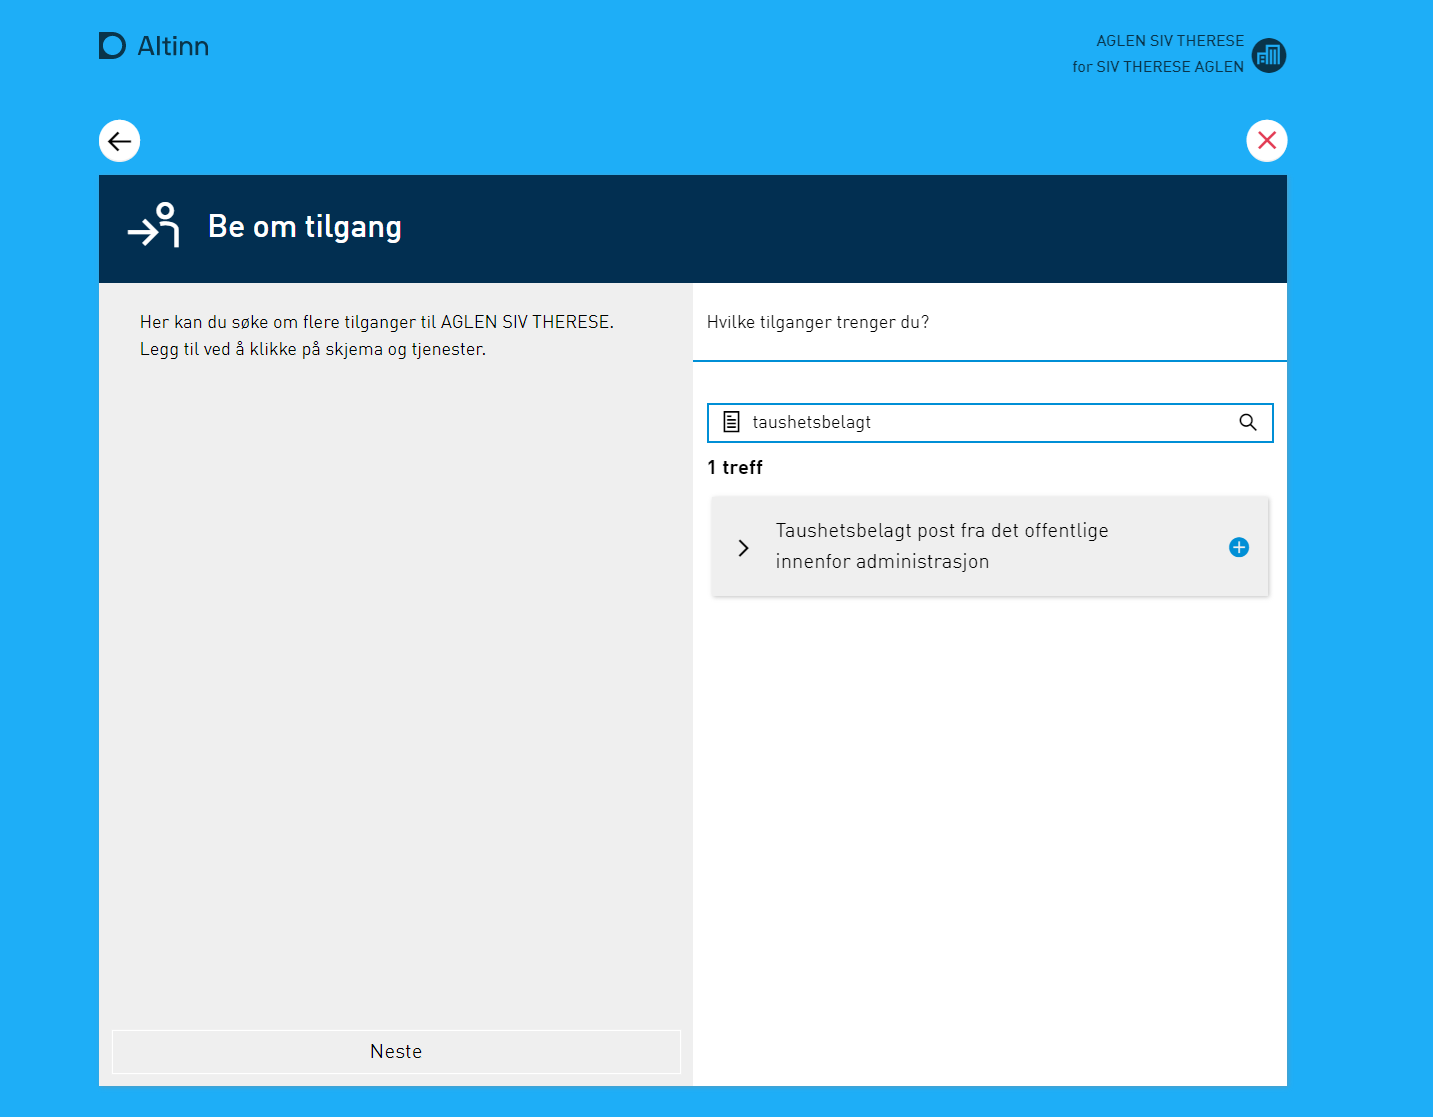
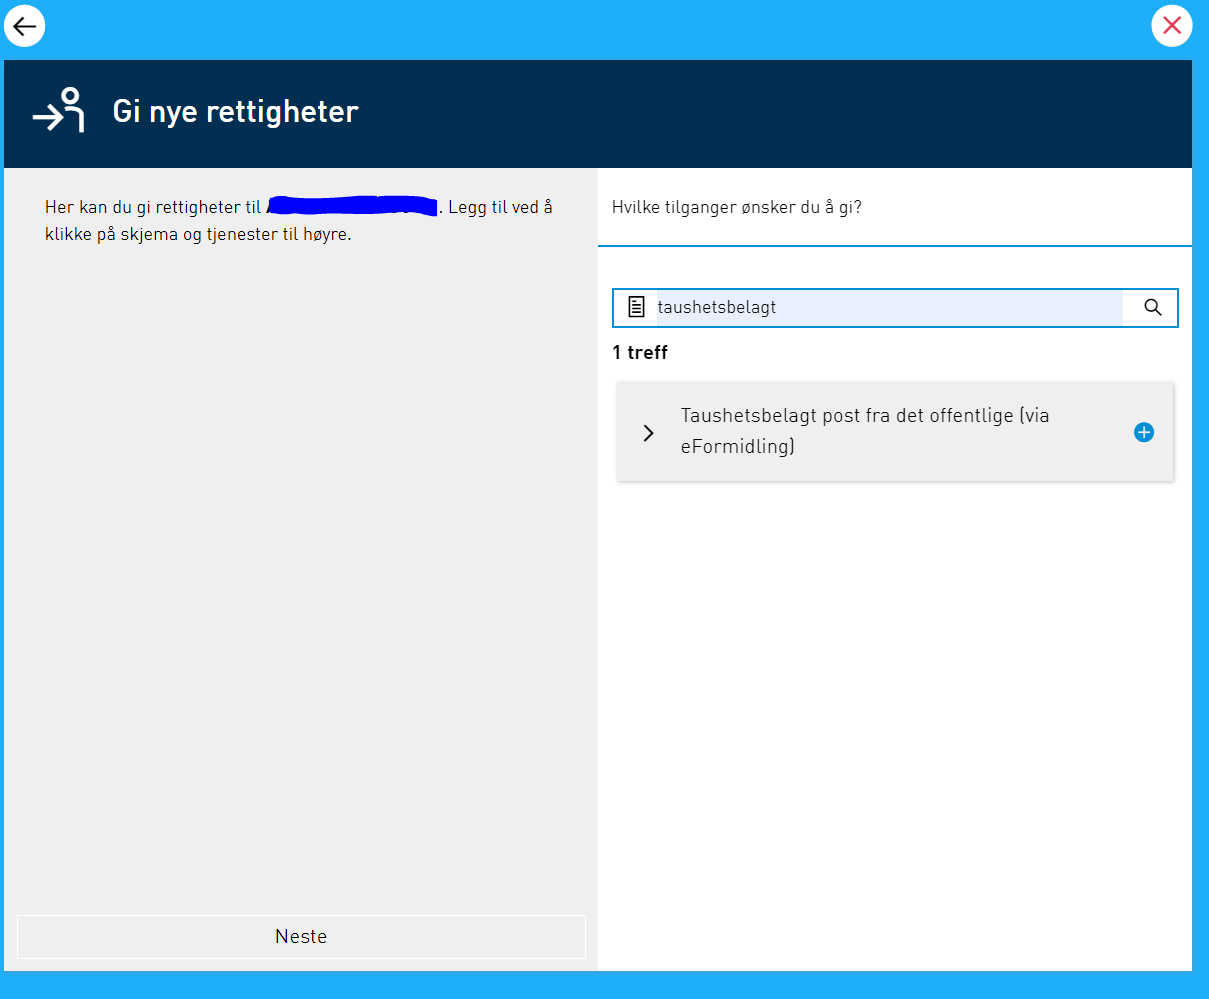
Publish to gh-pages

diff --git a/utviklingsguider/digital-post-til-virksomheter/overorndet-funksjonalitet/index.html b/utviklingsguider/digital-post-til-virksomheter/overorndet-funksjonalitet/index.html
@@ -990,8 +990,8 @@ benyttes når virksomheten sender post som inneholder sensitive personopplysning
 </tr>
 </tbody>
 </table>
-<p>Tjenestene som støtter forsendelse av taushetsbelagt informasjon avviker noe fra «vanlige» Altinn-tjenester. 
-Det spesielle med tjenestene er at rollen(e) som gir tilgang til tjenestene ikke er forhåndstildelt til roller fra Enhetsregisteret. 
+<p>Tjenesten som støtter forsendelse av taushetsbelagt informasjon avviker noe fra «vanlige» Altinn-tjenester. 
+Det spesielle med tjenesten er at rollen som gir tilgang til tjenesten ikke er forhåndstildelt til roller fra Enhetsregisteret. 
 Dette innebærer at det i utgangspunktet er INGEN som ser meldingen som er send til virksomhetens innboks, heller ikke daglig leder eller styrets leder. 
 Det er derfor viktig å sikre informajson om tilgangsstyring når tjenesten tas i bruk til nye målgrupper</p>
 <h3 id="tilgangsstyring-til-taushetsbelagt-post">Tilgangsstyring til taushetsbelagt post</h3>
